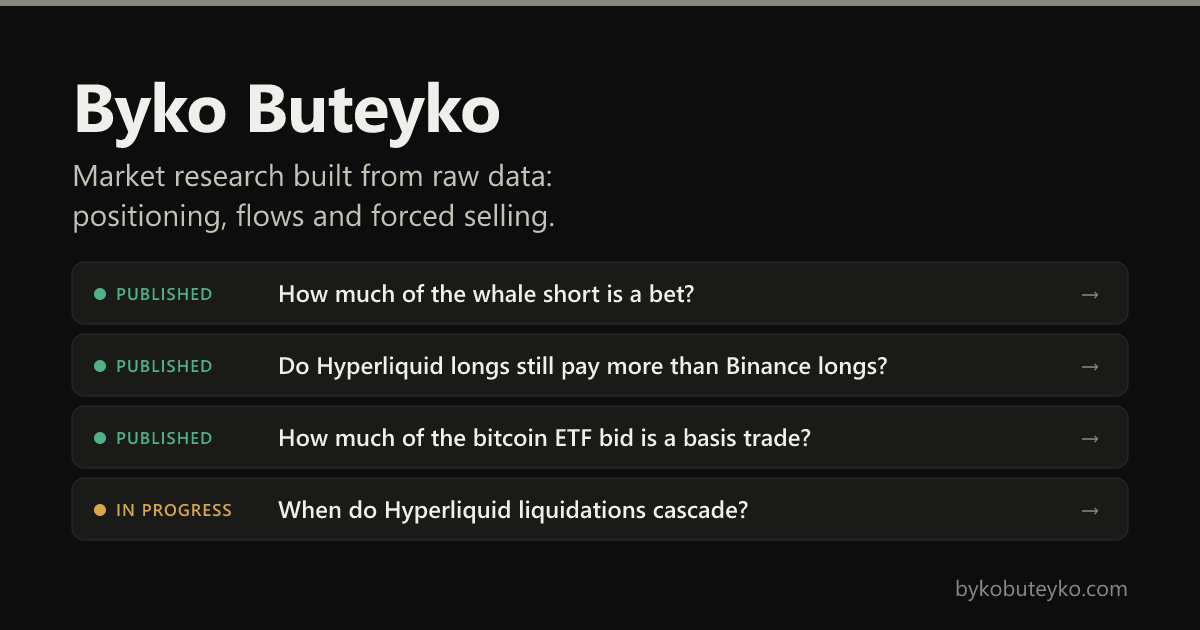
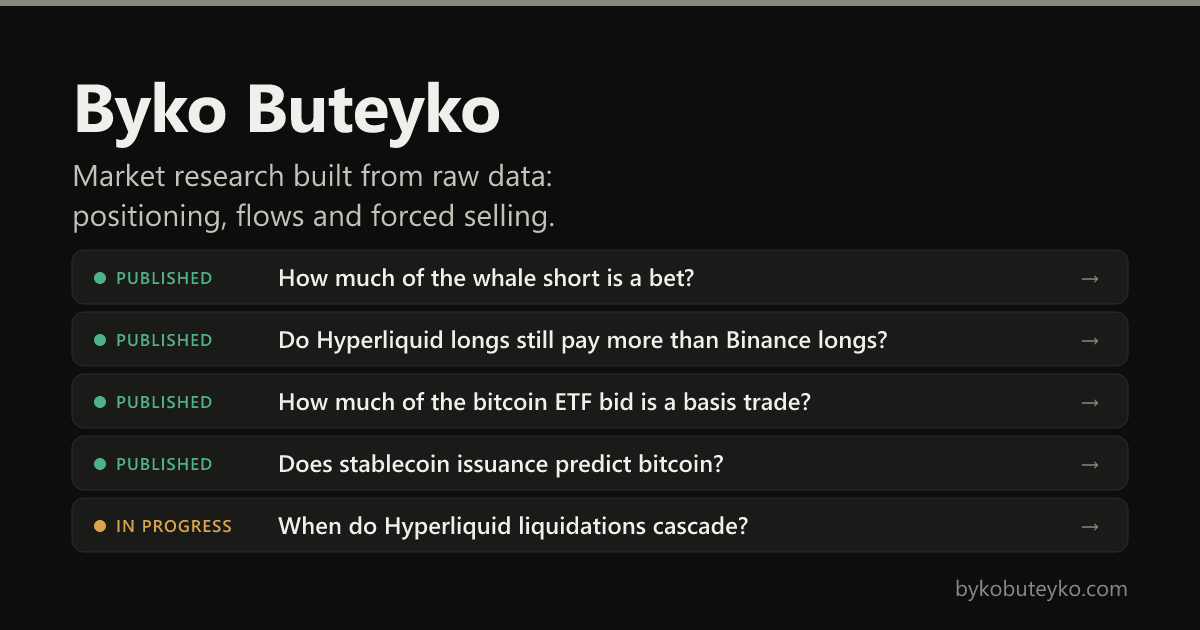
Stablecoin issuance note: page, decile chart, preview card, home card

diff --git a/research/stablecoin-issuance/index.html b/research/stablecoin-issuance/index.html
@@ -1,0 +1,118 @@
+<!doctype html>
+<html lang="en">
+<head>
+<meta charset="utf-8">
+<meta name="viewport" content="width=device-width, initial-scale=1">
+<title>Stablecoin Issuance and Bitcoin Returns · Byko Buteyko</title>
+<meta name="description" content="Does a week of heavy USDT and USDC issuance predict bitcoin's return the next week? Tested on 2024-26 data with hypotheses fixed in advance.">
+<meta property="og:type" content="article">
+<meta property="og:title" content="Does a big week of stablecoin issuance predict bitcoin's next week?">
+<meta property="og:description" content="In the 20 weeks of 2024-26 with the heaviest USDT and USDC issuance, bitcoin fell 1.7% on average the week after. Big mints followed rallies; they did not predict them.">
+<meta property="og:url" content="https://bykobuteyko.com/research/stablecoin-issuance/">
+<meta property="og:image" content="https://bykobuteyko.com/research/stablecoin-issuance/og.png">
+<meta property="og:image:width" content="1200">
+<meta property="og:image:height" content="630">
+<meta name="twitter:card" content="summary_large_image">
+<meta name="twitter:creator" content="@BykoButeyko">
+<link rel="icon" href="/favicon.svg" type="image/svg+xml">
+<link rel="icon" href="/favicon.ico" sizes="32x32">
+<link rel="apple-touch-icon" href="/apple-touch-icon.png">
+<link rel="stylesheet" href="/style.css">
+</head>
+<body>
+<main>
+  <p><a class="back" href="/">← Byko Buteyko</a></p>
+  <h1>Does a big week of stablecoin issuance predict bitcoin's next week?</h1>
+  <p class="meta">November 2026 · Weekly data from January 2021 to November 2026</p>
+
+  <p class="lede">A familiar line in crypto goes like this: when Tether and Circle mint billions of new USDT and USDC, fresh dollars are sitting on exchanges waiting to buy, so bitcoin is about to go up. The supply figures are public and free. If the story held, anyone could trade on it. I fixed a test in advance and ran it on 2024 to 2026.</p>
+
+  <div class="links">
+    <a href="https://github.com/BykoButeyko/stablecoin-flows">Code and full method</a>
+    <a href="/research/bitcoin-etf-basis/">Bitcoin ETF basis note</a>
+  </div>
+
+  <details class="terms">
+    <summary>Terms used here</summary>
+    <dl>
+      <dt>Stablecoin</dt><dd>A token meant to stay worth one dollar. USDT (Tether) and USDC (Circle) are the two largest, together about $245bn in November 2026.</dd>
+      <dt>Issuance</dt><dd>New tokens put into circulation when someone deposits dollars with the issuer. Redemptions take tokens out. Net issuance is the difference over a week.</dd>
+      <dt>Treasury mint</dt><dd>Tether often mints a large block into its own treasury and releases it later. I count those tokens only when they leave the treasury.</dd>
+      <dt>Issuance score</dt><dd>A week's supply growth compared with the previous 52 weeks: how far it sits above the typical week, measured in typical deviations.</dd>
+      <dt>Decile</dt><dd>One tenth of the weeks, sorted by issuance score. Decile 10 holds the heaviest issuance weeks.</dd>
+      <dt>Pre-registration</dt><dd>Writing down hypotheses, data rules and pass lines, with a date, before running any test.</dd>
+      <dt>Training and test</dt><dd>I set the threshold on 2021-23 and judged the hypothesis only on 2024-26, which played no part in setting it.</dd>
+      <dt>95% interval</dt><dd>The range of values for the true number that the data supports, at 95% confidence.</dd>
+      <dt>p-value</dt><dd>How often a result at least this strong would show up by chance if the hypothesis were false. I count below 0.05 as a pass.</dd>
+    </dl>
+  </details>
+
+  <h2>What I found</h2>
+
+  <div class="finding">
+    <strong>Heavy issuance did not predict a better week. If anything, the reverse.</strong>
+    In the 20 test weeks with the heaviest issuance, bitcoin returned <span class="num">-1.7%</span> on average the following week. In the other 128 weeks it returned <span class="num">+0.6%</span>. The gap of <span class="num">-2.3</span> percentage points has the wrong sign for the story, and its 95% interval (-4.4 to +0.5) includes zero.
+  </div>
+
+  <figure>
+    <!-- chart:deciles --><svg class="chart" viewBox="0 0 640 330" role="img" aria-label="Average bitcoin return the week after, by decile of weekly stablecoin issuance: 2021-23 training and 2024-26 test"><text x="0" y="12" class="coin">Bitcoin return the week after, %</text><rect x="572.2" y="52" width="59.8" height="228" fill="#f0efec" opacity=".05"/><line x1="34" x2="632" y1="280.0" y2="280.0" class="grid" stroke="#2c2c2a"/><text x="28" y="284.0" class="tick" text-anchor="end">-10</text><line x1="34" x2="632" y1="248.3" y2="248.3" class="grid" stroke="#2c2c2a"/><text x="28" y="252.3" class="tick" text-anchor="end">-7.5</text><line x1="34" x2="632" y1="216.7" y2="216.7" class="grid" stroke="#2c2c2a"/><text x="28" y="220.7" class="tick" text-anchor="end">-5</text><line x1="34" x2="632" y1="185.0" y2="185.0" class="grid" stroke="#2c2c2a"/><text x="28" y="189.0" class="tick" text-anchor="end">-2.5</text><line x1="34" x2="632" y1="121.7" y2="121.7" class="grid" stroke="#2c2c2a"/><text x="28" y="125.7" class="tick" text-anchor="end">2.5</text><line x1="34" x2="632" y1="90.0" y2="90.0" class="grid" stroke="#2c2c2a"/><text x="28" y="94.0" class="tick" text-anchor="end">5</text><line x1="34" x2="632" y1="58.3" y2="58.3" class="grid" stroke="#2c2c2a"/><text x="28" y="62.3" class="tick" text-anchor="end">7.5</text><polygon points="63.9,134.5 123.7,68.2 183.5,115.6 243.3,95.9 303.1,88.0 362.9,124.1 422.7,96.1 482.5,130.1 542.3,150.3 602.1,55.6 602.1,162.9 542.3,272.7 482.5,168.2 422.7,208.8 362.9,190.3 303.1,238.6 243.3,187.4 183.5,156.7 123.7,215.0 63.9,230.4" fill="#3987e5" opacity=".16"/><line x1="34" x2="632" y1="153.3" y2="153.3" class="mid" stroke="#898781" stroke-dasharray="3 3"/><text x="28" y="157.3" class="tick" text-anchor="end">0</text><polyline points="63.9,166.7 123.7,165.4 183.5,145.1 243.3,136.0 303.1,146.8 362.9,149.7 422.7,155.0 482.5,144.7 542.3,202.2 602.1,100.9" fill="none" stroke="#3987e5" stroke-width="2" stroke-linejoin="round"/><circle cx="63.9" cy="166.7" r="3.5" fill="#3987e5"/><circle cx="123.7" cy="165.4" r="3.5" fill="#3987e5"/><circle cx="183.5" cy="145.1" r="3.5" fill="#3987e5"/><circle cx="243.3" cy="136.0" r="3.5" fill="#3987e5"/><circle cx="303.1" cy="146.8" r="3.5" fill="#3987e5"/><circle cx="362.9" cy="149.7" r="3.5" fill="#3987e5"/><circle cx="422.7" cy="155.0" r="3.5" fill="#3987e5"/><circle cx="482.5" cy="144.7" r="3.5" fill="#3987e5"/><circle cx="542.3" cy="202.2" r="3.5" fill="#3987e5"/><circle cx="602.1" cy="100.9" r="3.5" fill="#3987e5"/><line x1="602.1" x2="602.1" y1="143.7" y2="190.9" stroke="#e66767" stroke-width="2"/><line x1="596.1" x2="608.1" y1="143.7" y2="143.7" stroke="#e66767" stroke-width="2"/><line x1="596.1" x2="608.1" y1="190.9" y2="190.9" stroke="#e66767" stroke-width="2"/><rect x="59.4" y="170.8" width="9" height="9" fill="#e66767" transform="rotate(45 63.9 175.3)"/><rect x="119.2" y="165.7" width="9" height="9" fill="#e66767" transform="rotate(45 123.7 170.2)"/><rect x="179.0" y="126.5" width="9" height="9" fill="#e66767" transform="rotate(45 183.5 131.0)"/><rect x="238.8" y="157.9" width="9" height="9" fill="#e66767" transform="rotate(45 243.3 162.4)"/><rect x="298.6" y="135.2" width="9" height="9" fill="#e66767" transform="rotate(45 303.1 139.7)"/><rect x="358.4" y="141.7" width="9" height="9" fill="#e66767" transform="rotate(45 362.9 146.2)"/><rect x="418.2" y="134.1" width="9" height="9" fill="#e66767" transform="rotate(45 422.7 138.6)"/><rect x="478.0" y="100.4" width="9" height="9" fill="#e66767" transform="rotate(45 482.5 104.9)"/><rect x="537.8" y="137.6" width="9" height="9" fill="#e66767" transform="rotate(45 542.3 142.1)"/><rect x="597.6" y="170.1" width="9" height="9" fill="#e66767" transform="rotate(45 602.1 174.6)"/><text x="628.0" y="210.9" class="val" text-anchor="end" fill="#f0efec">Test: -1.7%</text><text x="628.0" y="90.9" class="val" text-anchor="end" fill="#f0efec">Training: +4.1%</text><text x="63.9" y="298" class="tick" text-anchor="middle">1</text><text x="123.7" y="298" class="tick" text-anchor="middle">2</text><text x="183.5" y="298" class="tick" text-anchor="middle">3</text><text x="243.3" y="298" class="tick" text-anchor="middle">4</text><text x="303.1" y="298" class="tick" text-anchor="middle">5</text><text x="362.9" y="298" class="tick" text-anchor="middle">6</text><text x="422.7" y="298" class="tick" text-anchor="middle">7</text><text x="482.5" y="298" class="tick" text-anchor="middle">8</text><text x="542.3" y="298" class="tick" text-anchor="middle">9</text><text x="602.1" y="298" class="tick" text-anchor="middle">10</text><text x="63.9" y="314" class="tick" text-anchor="middle">least issued</text><text x="602.1" y="314" class="tick" text-anchor="middle">most issued</text><g class="legend"><line x1="0" x2="18" y1="32" y2="32" stroke="#3987e5" stroke-width="2"/><circle cx="9" cy="32" r="3.5" fill="#3987e5"/><text x="24" y="36">2021-23, where I set the threshold, with 95% band</text><rect x="387.5" y="27.5" width="9" height="9" fill="#e66767" transform="rotate(45 392 32)"/><text x="404" y="36">2024-26 test</text></g></svg><!-- /chart:deciles -->
+    <figcaption>Weeks sorted into tenths by issuance score, with the cut points fixed on 2021-23. Return runs from the Tuesday after the issuance week to the next Tuesday. The band and the interval on the test top decile come from a bootstrap that keeps runs of four weeks together.</figcaption>
+  </figure>
+
+  <div class="finding">
+    <strong>The signal that showed up in 2021-23 was noise.</strong>
+    On the training years the top decile came out at +4.4 points ahead of the rest, with p&nbsp;=&nbsp;0.04. Taken alone that looks like a finding. But decile 9 sat at -3.9% right next to it, and nothing between deciles 2 and 9 formed a trend. A single spike among ten groups of 16 weeks is what chance produces. Out of sample, it disappeared.
+  </div>
+
+  <div class="finding">
+    <strong>Issuance follows price.</strong>
+    The clearest pattern runs the other way. A 10% bitcoin gain in one week raised the next week's issuance score by about 0.6 in 2024-26 (p&nbsp;=&nbsp;0.006), and the week three back mattered too. Bitcoin's last three weekly returns explain 11% of the swings in issuance. Big mints come after rallies. My guess at why, which I haven't tested: demand for stablecoins to trade with rises once prices are already moving.
+  </div>
+
+  <div class="finding">
+    <strong>My prediction got the verdict right and the size wrong.</strong>
+    Before the test I wrote that the hypothesis would fail, with a gap between -1 and +1 points. It failed, at -2.3. I expected issuance to follow price, and it did.
+  </div>
+
+  <table>
+    <tr><th>Fixed in advance</th><th>Result</th></tr>
+    <tr><td>Top-10% issuance weeks are followed by higher bitcoin returns</td><td>Fails (p&nbsp;=&nbsp;0.94)</td></tr>
+    <tr><td>The effect survives holding this week's and last week's return fixed</td><td>Fails (p&nbsp;=&nbsp;0.34)</td></tr>
+    <tr><td>Prediction: the hypothesis fails, gap between -1 and +1 points</td><td>Fails on size (-2.3)</td></tr>
+    <tr><td>Prediction: past returns explain part of issuance</td><td>Holds</td></tr>
+  </table>
+
+  <h2>How I measured it</h2>
+
+  <h3>Rules first, data second</h3>
+  <p>I committed the hypotheses, variables, pass lines and a list of robustness checks before computing any test statistic, then committed the threshold from 2021-23 separately, also before the test. The test wasn't blind to the market: I know roughly what bitcoin did in 2024-26, and I had seen the issuance series while choosing how to scale it. I had not looked at any return next to issuance in either period.</p>
+
+  <h3>Why a score and not a dollar figure</h3>
+  <p>USDT plus USDC grew from about $4bn to $117bn between January 2020 and January 2022. A growth threshold set on those years picks out zero weeks after 2024, and a dollar threshold drifts the other way as supply grows. So each week is scored against its own previous 52 weeks, using the median and the median absolute deviation. That way the USDC run of March 2023 and the Terra collapse of May 2022 don't distort the scale for a year afterwards.</p>
+
+  <h3>Supply data</h3>
+  <p>Daily circulating supply comes from DefiLlama's free stablecoin API, at the asset level. I don't add up the per-chain series. Several chains appear in them on 12 May 2022 already holding billions, and Tether's chain swaps (burn on Ethereum, mint on Tron) show up as large opposite moves. The asset totals have neither problem. DefiLlama's USDT history before 2020 is incomplete, so the sample starts there and 2020 only feeds the first year's comparison window.</p>
+
+  <h3>Timing</h3>
+  <p>Weeks run Monday to Monday, 00:00 UTC. I don't know at what hour DefiLlama takes the snapshot it dates midnight, so the return window starts one day later, on Tuesday, to avoid counting any of the issuance week inside it.</p>
+
+  <h3>Checks</h3>
+  <p>I listed seven variants before the test. None turned the result positive and significant: USDT alone, USDC alone, a top 20% cut, a raw dollar threshold, smoothed supply, Coinbase prices instead of Binance, and no one-day gap. The last one matters as a warning. Moving the return window by a day takes the gap from -2.3 to +0.1 points. Twenty weeks of bitcoin returns, with a weekly swing of about 6.7%, are that noisy, so I read the negative sign as noise too.</p>
+
+  <h2>What this can't see</h2>
+  <ul>
+    <li>Small effects. With 20 heavy weeks against 128, the test reliably detects only gaps of about 3.5 to 4 points a week. The strong version of the story fails. An edge of half a point a week would not show up here either way.</li>
+    <li>Where the new tokens go. A mint that lands on an exchange and one that sits in a lending pool look the same in supply totals.</li>
+    <li>Other stablecoins. USDe, USDS, DAI and newer coins grow differently, some of them through crypto collateral rather than dollar deposits. I left them out on purpose.</li>
+    <li>Faster horizons. Issuance might lead price by hours, which weekly data can't resolve.</li>
+  </ul>
+  <p>This describes past supply and prices. It is not a recommendation to trade them.</p>
+
+  <h2>What's next</h2>
+  <p>The useful follow-up is flow into exchanges rather than supply. On-chain transfers of new USDT and USDC into exchange wallets would show whether the dollars actually arrive where they could buy bitcoin, and at what hour.</p>
+
+  <footer>Byko Buteyko · <a href="/">More projects</a></footer>
+</main>
+<script src="/hit.js" defer></script>
+</body>
+</html>

diff --git a/index.html b/index.html
@@ -48,6 +48,12 @@
     <div class="d">I matched weekly US spot bitcoin ETF flows against hedge-fund positions in CME futures, with the hypotheses fixed before the test. For each BTC of inflow in 2025-26, leveraged funds added 0.23 BTC of short. A falling futures premium did not predict outflows.</div>
     <div class="m"><span>Python</span><span>pandas</span><span>statsmodels</span></div>
   </a>
+  <a class="project" href="/research/stablecoin-issuance/">
+    <div class="top"><span class="status done">Published</span><span>November 2026</span></div>
+    <div class="t">Does a big week of stablecoin issuance predict bitcoin's next week?</div>
+    <div class="d">I tested the idea that heavy USDT and USDC minting comes before bitcoin rallies, with the threshold fixed on 2021-23 and judged on 2024-26. It failed: in the heaviest issuance weeks bitcoin fell 1.7% on average the week after. Issuance follows price instead.</div>
+    <div class="m"><span>Python</span><span>pandas</span><span>statsmodels</span></div>
+  </a>
   <a class="project" href="/research/hyperliquid-liquidations/">
     <div class="top"><span class="status wip">In progress</span><span>Since November 2026</span></div>
     <div class="t">When do Hyperliquid liquidations cascade?</div>

diff --git a/scripts/stablecoin_charts.py b/scripts/stablecoin_charts.py
@@ -1,0 +1,71 @@
+"""Builds the chart on the stablecoin issuance page from the stablecoin-flows repo (run its fetch.py first).
+
+The SVG goes between <!-- chart:deciles --> and <!-- /chart:deciles --> in the page.
+
+  python scripts/stablecoin_charts.py path/to/stablecoin-flows
+"""
+import re, sys
+from pathlib import Path
+
+PAGE = Path(__file__).parent.parent / "research" / "stablecoin-issuance" / "index.html"
+W, H, LEFT, RIGHT, TOP, BOTTOM = 640, 330, 34, 8, 52, 280
+LO, HI, GRID = -10, 8, (-10, -7.5, -5, -2.5, 2.5, 5, 7.5)
+# colors also set as SVG attributes, so the chart renders even with a cached style.css
+TRAIN, TEST, BAND = "#3987e5", "#e66767", "#3987e5"
+
+
+def svg(m_tr, lo_tr, hi_tr, m_te, lo_te, hi_te):
+    step = (W - LEFT - RIGHT) / 10
+    x = lambda k: LEFT + (k - 0.5) * step  # k = 1..10
+    y = lambda v: TOP + (HI - v) / (HI - LO) * (BOTTOM - TOP)
+    out = [f'<text x="0" y="12" class="coin">Bitcoin return the week after, %</text>',
+           f'<rect x="{x(10) - step / 2:.1f}" y="{TOP}" width="{step:.1f}" height="{BOTTOM - TOP}" fill="#f0efec" opacity=".05"/>']
+    for v in GRID:
+        out.append(f'<line x1="{LEFT}" x2="{W - RIGHT}" y1="{y(v):.1f}" y2="{y(v):.1f}" class="grid" stroke="#2c2c2a"/>'
+                   f'<text x="{LEFT - 6}" y="{y(v) + 4:.1f}" class="tick" text-anchor="end">{v:g}</text>')
+    band = [f"{x(k):.1f},{y(v):.1f}" for k, v in zip(range(1, 11), hi_tr)] + \
+           [f"{x(k):.1f},{y(v):.1f}" for k, v in reversed(list(zip(range(1, 11), lo_tr)))]
+    out.append(f'<polygon points="{" ".join(band)}" fill="{BAND}" opacity=".16"/>')
+    out.append(f'<line x1="{LEFT}" x2="{W - RIGHT}" y1="{y(0):.1f}" y2="{y(0):.1f}" class="mid" stroke="#898781" stroke-dasharray="3 3"/>'
+               f'<text x="{LEFT - 6}" y="{y(0) + 4:.1f}" class="tick" text-anchor="end">0</text>')
+    pts = " ".join(f"{x(k):.1f},{y(v):.1f}" for k, v in zip(range(1, 11), m_tr))
+    out.append(f'<polyline points="{pts}" fill="none" stroke="{TRAIN}" stroke-width="2" stroke-linejoin="round"/>')
+    for k, v in zip(range(1, 11), m_tr):
+        out.append(f'<circle cx="{x(k):.1f}" cy="{y(v):.1f}" r="3.5" fill="{TRAIN}"/>')
+    out.append(f'<line x1="{x(10):.1f}" x2="{x(10):.1f}" y1="{y(hi_te[-1]):.1f}" y2="{y(lo_te[-1]):.1f}" stroke="{TEST}" stroke-width="2"/>')
+    for v in (hi_te[-1], lo_te[-1]):
+        out.append(f'<line x1="{x(10) - 6:.1f}" x2="{x(10) + 6:.1f}" y1="{y(v):.1f}" y2="{y(v):.1f}" stroke="{TEST}" stroke-width="2"/>')
+    for k, v in zip(range(1, 11), m_te):
+        cx, cy = x(k), y(v)
+        out.append(f'<rect x="{cx - 4.5:.1f}" y="{cy - 4.5:.1f}" width="9" height="9" fill="{TEST}" '
+                   f'transform="rotate(45 {cx:.1f} {cy:.1f})"/>')
+    out.append(f'<text x="{x(10) + step / 2 - 4:.1f}" y="{y(lo_te[-1]) + 20:.1f}" class="val" text-anchor="end" fill="#f0efec">'
+               f'Test: {m_te[-1]:+.1f}%</text>'
+               f'<text x="{x(10) + step / 2 - 4:.1f}" y="{y(m_tr[-1]) - 10:.1f}" class="val" text-anchor="end" fill="#f0efec">'
+               f'Training: {m_tr[-1]:+.1f}%</text>')
+    for k in range(1, 11):
+        out.append(f'<text x="{x(k):.1f}" y="{BOTTOM + 18}" class="tick" text-anchor="middle">{k}</text>')
+    out.append(f'<text x="{x(1):.1f}" y="{BOTTOM + 34}" class="tick" text-anchor="middle">least issued</text>'
+               f'<text x="{x(10):.1f}" y="{BOTTOM + 34}" class="tick" text-anchor="middle">most issued</text>')
+    # legend
+    out.append(f'<g class="legend"><line x1="0" x2="18" y1="32" y2="32" stroke="{TRAIN}" stroke-width="2"/>'
+               f'<circle cx="9" cy="32" r="3.5" fill="{TRAIN}"/><text x="24" y="36">2021-23, where I set the threshold, with 95% band</text>'
+               f'<rect x="{392 - 4.5}" y="{32 - 4.5}" width="9" height="9" fill="{TEST}" transform="rotate(45 392 32)"/>'
+               f'<text x="404" y="36">2024-26 test</text></g>')
+    return (f'<svg class="chart" viewBox="0 0 {W} {H}" role="img" aria-label="Average bitcoin return the week after, '
+            f'by decile of weekly stablecoin issuance: 2021-23 training and 2024-26 test">{"".join(out)}</svg>')
+
+
+if __name__ == "__main__":
+    repo = Path(sys.argv[1]).resolve()
+    sys.path.insert(0, str(repo))
+    import build
+    from chart import by_decile
+    train, test = build.split(build.frame())
+    train, test = train.dropna(subset=["r_next"]), test.dropna(subset=["r_next"])
+    chart = svg(*by_decile(train), *by_decile(test))
+    html = PAGE.read_text(encoding="utf-8")
+    html = re.sub(r"<!-- chart:deciles -->.*?<!-- /chart:deciles -->",
+                  lambda m: f"<!-- chart:deciles -->{chart}<!-- /chart:deciles -->", html, flags=re.S)
+    PAGE.write_text(html, encoding="utf-8")
+    print(len(train), "training weeks,", len(test), "test weeks, last", test.index.max().date())

diff --git a/scripts/og.py b/scripts/og.py
@@ -1,4 +1,4 @@
-"""Renders the link-preview cards (1200x630) for the home page and the funding, cascade and ETF notes.
+"""Renders the link-preview cards (1200x630) for the home page and the funding, cascade, ETF and stablecoin notes.
 render.py makes the whale note's post images.
 
   pip install resvg-py
@@ -40,6 +40,7 @@ PROJECTS = [
     (OK, "Published", "How much of the whale short is a bet?"),
     (OK, "Published", "Do Hyperliquid longs still pay more than Binance longs?"),
     (OK, "Published", "How much of the bitcoin ETF bid is a basis trade?"),
+    (OK, "Published", "Does stablecoin issuance predict bitcoin?"),
     (WIP, "In progress", "When do Hyperliquid liquidations cascade?"),
 ]
 
@@ -74,12 +75,12 @@ def chart(page, name):
 def home():
     body = [text(72, 132, "Byko Buteyko", 68, INK, 700, spacing=-1),
             *lines(72, 186, ["Market research built from raw data:", "positioning, flows and forced selling."], 30, INK2, gap=1.33)]
-    y = 262
+    y = 250
     for color, label, title in PROJECTS:
-        body += [f'<rect x="72" y="{y}" width="{W - 144}" height="62" rx="12" fill="{SURFACE}" stroke="{LINE}"/>',
-                 *status(94, y + 38, color, label), text(278, y + 40, title, 24, INK, 600),
-                 text(W - 100, y + 40, "→", 24, MUTED, anchor="end")]
-        y += 72
+        body += [f'<rect x="72" y="{y}" width="{W - 144}" height="54" rx="12" fill="{SURFACE}" stroke="{LINE}"/>',
+                 *status(94, y + 34, color, label), text(278, y + 36, title, 24, INK, 600),
+                 text(W - 100, y + 36, "→", 24, MUTED, anchor="end")]
+        y += 62
     # the home card carries its own name at the top, so it skips the footer name
     return frame(body).replace(text(72, H - 34, "Byko Buteyko", 22, MUTED), "")
 
@@ -129,8 +130,19 @@ def etf():
     return frame(body)
 
 
+def stablecoin():
+    vb, inner = chart(ROOT / "research" / "stablecoin-issuance" / "index.html", "deciles")
+    body = [*status(72, 96, OK, "Published"),
+            *lines(72, 160, ["Does a big week of", "stablecoin issuance", "predict bitcoin?"], 46, INK, 700, gap=1.2),
+            *lines(72, 350, ["In the 20 heaviest USDT and USDC", "issuance weeks of 2024-26, bitcoin", "fell 1.7% on average the week after."], 23, INK2, gap=1.45),
+            f'<rect x="620" y="60" width="508" height="480" rx="14" fill="{SURFACE}" stroke="{LINE}"/>',
+            f'<svg class="chart" x="644" y="100" width="460" height="400" viewBox="{vb}">{inner}</svg>']
+    return frame(body)
+
+
 CARDS = {"og.png": home, "research/hyperliquid-whales/og.png": whales, "research/hyperliquid-funding/og.png": funding,
-         "research/hyperliquid-liquidations/og.png": cascades, "research/bitcoin-etf-basis/og.png": etf}
+         "research/hyperliquid-liquidations/og.png": cascades, "research/bitcoin-etf-basis/og.png": etf,
+         "research/stablecoin-issuance/og.png": stablecoin}
 
 if __name__ == "__main__":
     for path, make in CARDS.items():
